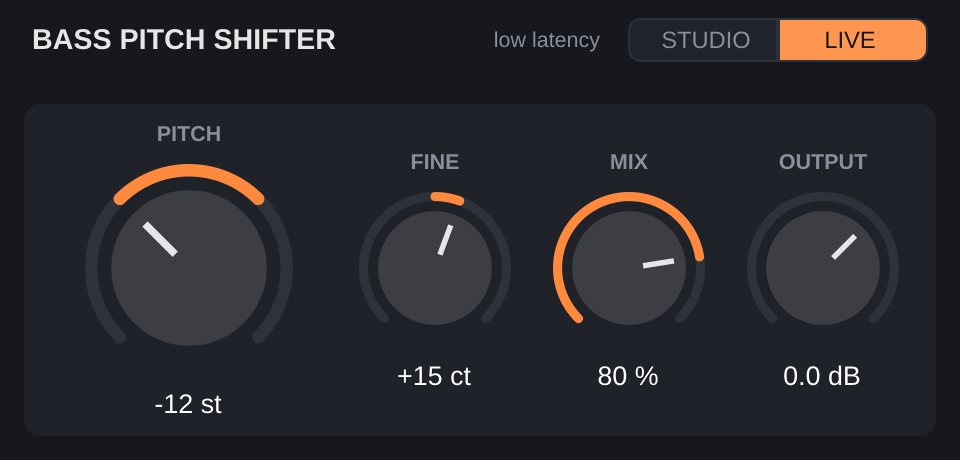
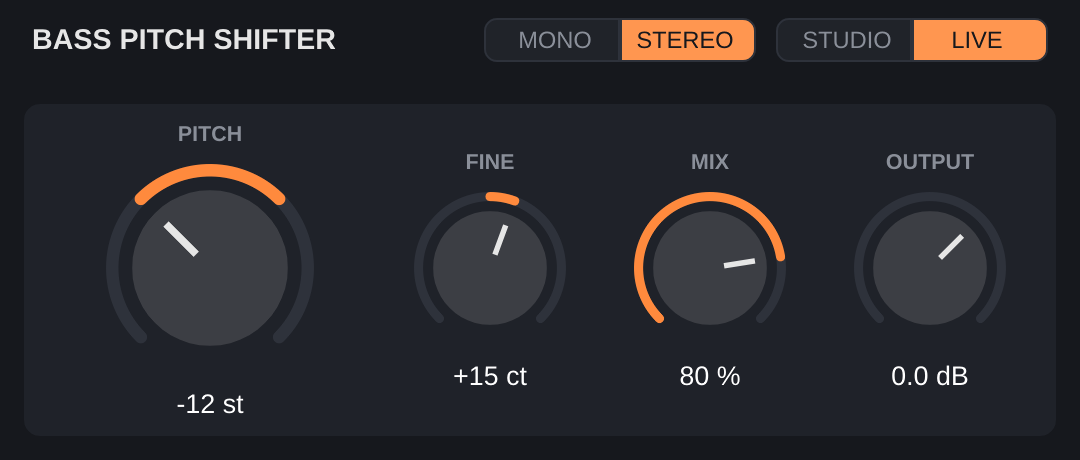
Add Mono/Stereo switch
Mono sums L+R, shifts once and copies the result to both outputs (half
the CPU, guaranteed centred). Stereo keeps the current linked stereo
processing and stays the default. Engines are reset when switching.
The Studio/Live switch is generalised into a reusable two-way toggle,
and the editor is a little wider to fit both.

Claude-Session: https://claude.ai/code/session_011rEKyWBZUNFqnVAD4vAtZB

diff --git a/Source/PluginEditor.cpp b/Source/PluginEditor.cpp
@@ -88,27 +88,14 @@ BassPitchShifterEditor::BassPitchShifterEditor (BassPitchShifterProcessor& p)
     setupKnob (mix,    "mix",       "MIX",    100.0);
     setupKnob (output, "output",    "OUTPUT", 0.0);
 
-    // Studio / Live switch, driven by the "mode" choice parameter.
-    auto* modeParam = processor.apvts.getParameter ("mode");
-    modeAttachment = std::make_unique<juce::ParameterAttachment> (*modeParam,
-        [this] (float value) { modeChanged ((int) value); });
+    setupToggle (mode, "mode",
+                 "STUDIO", "Best quality, ~75 ms latency. For recording and mixing.",
+                 "LIVE",   "Low latency (about half a note period). For playing live, single notes.");
+    setupToggle (width, "width",
+                 "MONO",   "Sums left and right, shifts once and outputs the same signal on both sides.",
+                 "STEREO", "Keeps the stereo image; both sides are shifted together.");
 
-    studioButton.setTooltip ("Best quality, ~75 ms latency. For recording and mixing.");
-    liveButton.setTooltip ("Low latency (about half a note period). For playing live, single notes.");
-
-    for (auto* b : { &studioButton, &liveButton })
-    {
-        b->setClickingTogglesState (false);
-        addAndMakeVisible (b);
-    }
-    studioButton.setConnectedEdges (juce::Button::ConnectedOnRight);
-    liveButton.setConnectedEdges (juce::Button::ConnectedOnLeft);
-    studioButton.onClick = [this] { modeAttachment->setValueAsCompleteGesture ((float) BassPitchShifterProcessor::studio); };
-    liveButton.onClick   = [this] { modeAttachment->setValueAsCompleteGesture ((float) BassPitchShifterProcessor::live); };
-
-    modeAttachment->sendInitialUpdate();
-
-    setSize (480, 230);
+    setSize (540, 230);
 }
 
 BassPitchShifterEditor::~BassPitchShifterEditor()
@@ -133,12 +120,29 @@ void BassPitchShifterEditor::setupKnob (Knob& k, const juce::String& paramId, co
     k.attachment = std::make_unique<juce::AudioProcessorValueTreeState::SliderAttachment> (processor.apvts, paramId, k.slider);
 }
 
-void BassPitchShifterEditor::modeChanged (int newMode)
+void BassPitchShifterEditor::setupToggle (Toggle& t, const juce::String& paramId,
+                                          const juce::String& firstText, const juce::String& firstTip,
+                                          const juce::String& secondText, const juce::String& secondTip)
 {
-    mode = newMode;
-    studioButton.setToggleState (mode == BassPitchShifterProcessor::studio, juce::dontSendNotification);
-    liveButton.setToggleState (mode == BassPitchShifterProcessor::live, juce::dontSendNotification);
-    repaint();
+    t.first.setButtonText (firstText);
+    t.second.setButtonText (secondText);
+    t.first.setTooltip (firstTip);
+    t.second.setTooltip (secondTip);
+    t.first.setConnectedEdges (juce::Button::ConnectedOnRight);
+    t.second.setConnectedEdges (juce::Button::ConnectedOnLeft);
+    addAndMakeVisible (t.first);
+    addAndMakeVisible (t.second);
+
+    t.attachment = std::make_unique<juce::ParameterAttachment> (*processor.apvts.getParameter (paramId),
+        [&t] (float value)
+        {
+            t.first.setToggleState ((int) value == 0, juce::dontSendNotification);
+            t.second.setToggleState ((int) value == 1, juce::dontSendNotification);
+        });
+
+    t.first.onClick  = [&t] { t.attachment->setValueAsCompleteGesture (0.0f); };
+    t.second.onClick = [&t] { t.attachment->setValueAsCompleteGesture (1.0f); };
+    t.attachment->sendInitialUpdate();
 }
 
 void BassPitchShifterEditor::paint (juce::Graphics& g)
@@ -150,20 +154,16 @@ void BassPitchShifterEditor::paint (juce::Graphics& g)
     g.setFont (juce::FontOptions (16.0f, juce::Font::bold));
     g.drawText ("BASS PITCH SHIFTER", header, juce::Justification::centredLeft);
 
-    g.setColour (Colours::dimText);
-    g.setFont (juce::FontOptions (12.0f));
-    g.drawText (mode == BassPitchShifterProcessor::live ? "low latency" : "~75 ms latency",
-                header.withTrimmedRight (164), juce::Justification::centredRight);
-
     g.setColour (Colours::panel);
     g.fillRoundedRectangle (getLocalBounds().withTrimmedTop (40).reduced (12).toFloat(), 8.0f);
 }
 
 void BassPitchShifterEditor::resized()
 {
-    auto modeArea = getLocalBounds().removeFromTop (40).reduced (16, 9).removeFromRight (150);
-    studioButton.setBounds (modeArea.removeFromLeft (modeArea.getWidth() / 2));
-    liveButton.setBounds (modeArea);
+    auto header = getLocalBounds().removeFromTop (40).reduced (16, 9);
+    mode.setBounds (header.removeFromRight (136));
+    header.removeFromRight (10);
+    width.setBounds (header.removeFromRight (136));
 
     auto area = getLocalBounds().withTrimmedTop (40).reduced (20, 18);
 

diff --git a/Source/PluginProcessor.cpp b/Source/PluginProcessor.cpp
@@ -12,6 +12,7 @@ BassPitchShifterProcessor::BassPitchShifterProcessor()
     mixParam       = apvts.getRawParameterValue ("mix");
     outputParam    = apvts.getRawParameterValue ("output");
     modeParam      = apvts.getRawParameterValue ("mode");
+    widthParam     = apvts.getRawParameterValue ("width");
 }
 
 juce::AudioProcessorValueTreeState::ParameterLayout BassPitchShifterProcessor::createLayout()
@@ -41,6 +42,9 @@ juce::AudioProcessorValueTreeState::ParameterLayout BassPitchShifterProcessor::c
     layout.add (std::make_unique<AudioParameterChoice> (ParameterID { "mode", 1 }, "Mode",
         StringArray { "Studio", "Live" }, (int) live));
 
+    layout.add (std::make_unique<AudioParameterChoice> (ParameterID { "width", 1 }, "Width",
+        StringArray { "Mono", "Stereo" }, (int) stereo));
+
     return layout;
 }
 
@@ -58,6 +62,7 @@ void BassPitchShifterProcessor::prepareToPlay (double sampleRate, int samplesPer
     liveShifter.prepare (sampleRate);
 
     currentMode = (int) modeParam->load();
+    currentWidth = (int) widthParam->load();
     setLatencySamples (latencyForMode (currentMode.load()));
 
     const int latency = shifter.getLatencySamples();
@@ -96,11 +101,21 @@ void BassPitchShifterProcessor::processBlock (juce::AudioBuffer<float>& buffer, 
 {
     juce::ScopedNoDenormals noDenormals;
 
-    const int numSamples  = buffer.getNumSamples();
-    const int numChannels = juce::jmin (buffer.getNumChannels(), maxChannels);
+    const int numSamples     = buffer.getNumSamples();
+    const int totalChannels  = juce::jmin (buffer.getNumChannels(), maxChannels);
 
     for (int ch = getTotalNumInputChannels(); ch < getTotalNumOutputChannels(); ++ch)
         buffer.clear (ch, 0, numSamples);
+
+    // Mono: sum L+R into the left channel, process that alone, copy it to the right at the end.
+    const int width = (int) widthParam->load();
+    const bool monoSum = width == mono && totalChannels == 2;
+    if (monoSum)
+    {
+        buffer.addFrom (0, 0, buffer, 1, 0, numSamples);
+        buffer.applyGain (0, 0, numSamples, 0.5f);
+    }
+    const int numChannels = monoSum ? 1 : totalChannels;
 
     const float semis = semitonesParam->load() + centsParam->load() * 0.01f;
     const float ratio = std::pow (2.0f, semis / 12.0f);
@@ -109,13 +124,16 @@ void BassPitchShifterProcessor::processBlock (juce::AudioBuffer<float>& buffer, 
     gainSmoothed.setTargetValue (juce::Decibels::decibelsToGain (outputParam->load()));
 
     const int mode = (int) modeParam->load();
-    if (mode != currentMode)
+    if (mode != currentMode || width != currentWidth)
     {
+        if (mode != currentMode)
+            triggerAsyncUpdate(); // latency must be changed off the audio thread
+
         currentMode = mode;
+        currentWidth = width;
         shifter.reset();
         liveShifter.reset();
         dryDelay.reset();
-        triggerAsyncUpdate(); // latency must be changed off the audio thread
     }
 
     if (dryBuffer.getNumSamples() < numSamples)
@@ -167,6 +185,9 @@ void BassPitchShifterProcessor::processBlock (juce::AudioBuffer<float>& buffer, 
             wet[i] = (dry + mix * (wet[i] - dry)) * gain;
         }
     }
+
+    if (monoSum)
+        buffer.copyFrom (1, 0, buffer, 0, 0, numSamples);
 }
 
 juce::AudioProcessorEditor* BassPitchShifterProcessor::createEditor()

diff --git a/Source/PluginEditor.h b/Source/PluginEditor.h
@@ -29,16 +29,29 @@ private:
         std::unique_ptr<juce::AudioProcessorValueTreeState::SliderAttachment> attachment;
     };
 
+    /** Two-way segmented switch bound to a two-option choice parameter. */
+    struct Toggle
+    {
+        juce::TextButton first, second;
+        std::unique_ptr<juce::ParameterAttachment> attachment;
+
+        void setBounds (juce::Rectangle<int> r)
+        {
+            first.setBounds (r.removeFromLeft (r.getWidth() / 2));
+            second.setBounds (r);
+        }
+    };
+
     void setupKnob (Knob&, const juce::String& paramId, const juce::String& name, double defaultValue);
-    void modeChanged (int newMode);
+    void setupToggle (Toggle&, const juce::String& paramId,
+                      const juce::String& firstText, const juce::String& firstTip,
+                      const juce::String& secondText, const juce::String& secondTip);
 
     BassPitchShifterProcessor& processor;
     MinimalLookAndFeel lnf;
     Knob pitch, fine, mix, output;
 
-    juce::TextButton studioButton { "STUDIO" }, liveButton { "LIVE" };
-    std::unique_ptr<juce::ParameterAttachment> modeAttachment;
-    int mode = BassPitchShifterProcessor::live;
+    Toggle mode, width;
     juce::TooltipWindow tooltips { this, 600 };
 
     JUCE_DECLARE_NON_COPYABLE_WITH_LEAK_DETECTOR (BassPitchShifterEditor)

diff --git a/Source/PluginProcessor.h b/Source/PluginProcessor.h
@@ -39,6 +39,7 @@ public:
     juce::AudioProcessorValueTreeState apvts;
 
     enum Mode { studio = 0, live = 1 };
+    enum Width { mono = 0, stereo = 1 };
 
 private:
     static juce::AudioProcessorValueTreeState::ParameterLayout createLayout();
@@ -50,8 +51,10 @@ private:
     std::atomic<float>* mixParam       = nullptr;
     std::atomic<float>* outputParam    = nullptr;
     std::atomic<float>* modeParam      = nullptr;
+    std::atomic<float>* widthParam     = nullptr;
 
     std::atomic<int> currentMode { live };
+    int currentWidth = stereo;
 
     static constexpr int maxChannels = 2;
     PitchShifter shifter;     // studio: high quality, ~75 ms

diff --git a/README.md b/README.md
@@ -11,6 +11,7 @@ A minimal pitch-shifter plugin tuned for bass guitar and synth bass.
 | Mix    | 0 … 100 %        | Dry/wet blend (dry is latency-aligned, no combing) |
 | Output | −24 … +12 dB     | Output level                                     |
 | Studio / Live | switch    | Choose the engine (see below)                    |
+| Mono / Stereo | switch    | Mono sums L+R and outputs the same signal on both sides (half the CPU, rock-solid centre). Stereo keeps the input's stereo image, with both sides shifted together. |
 
 Double-click any knob to reset it.
 
